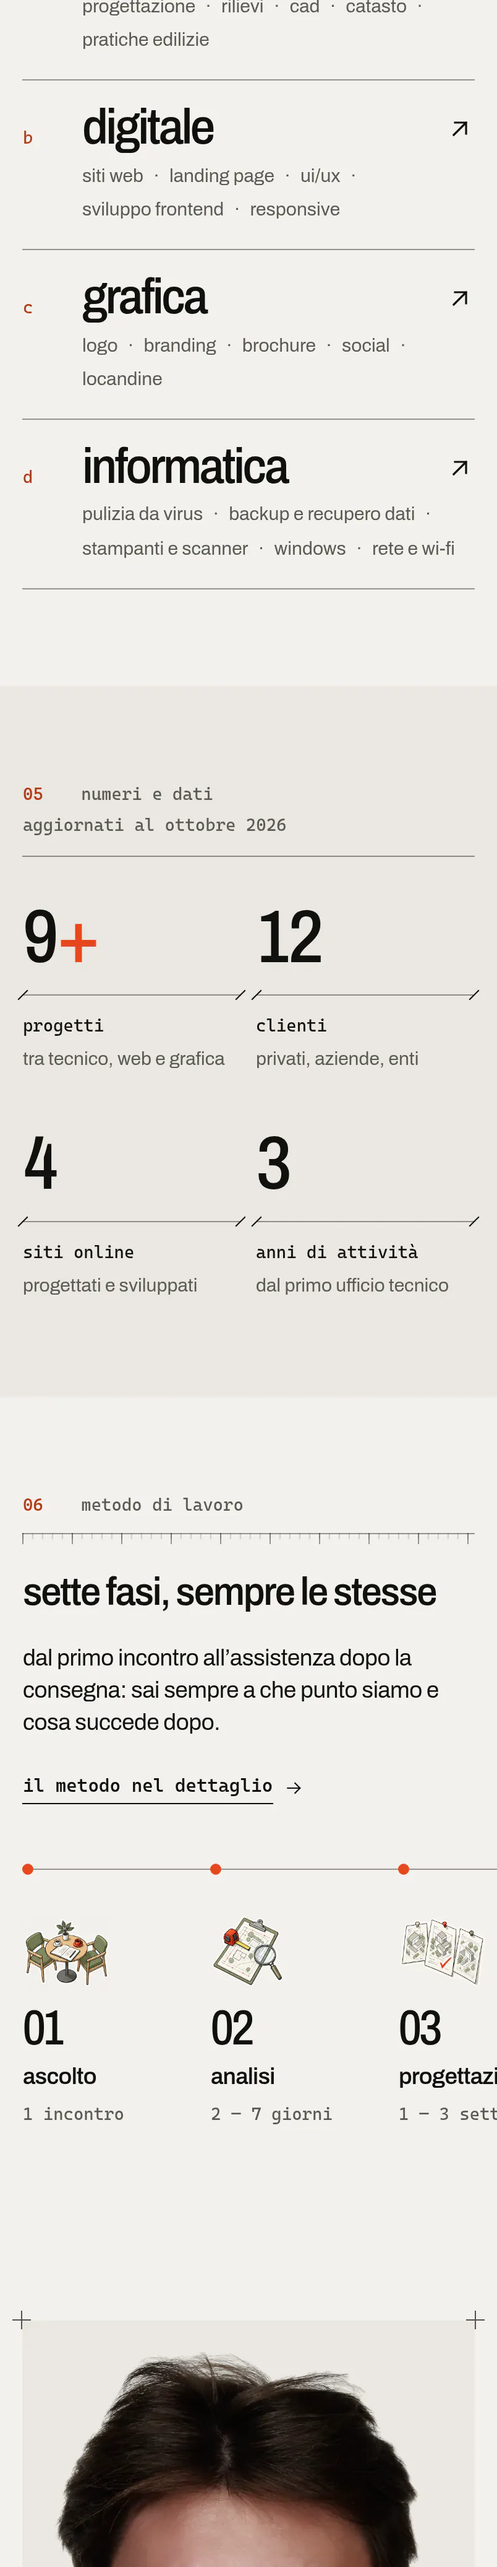
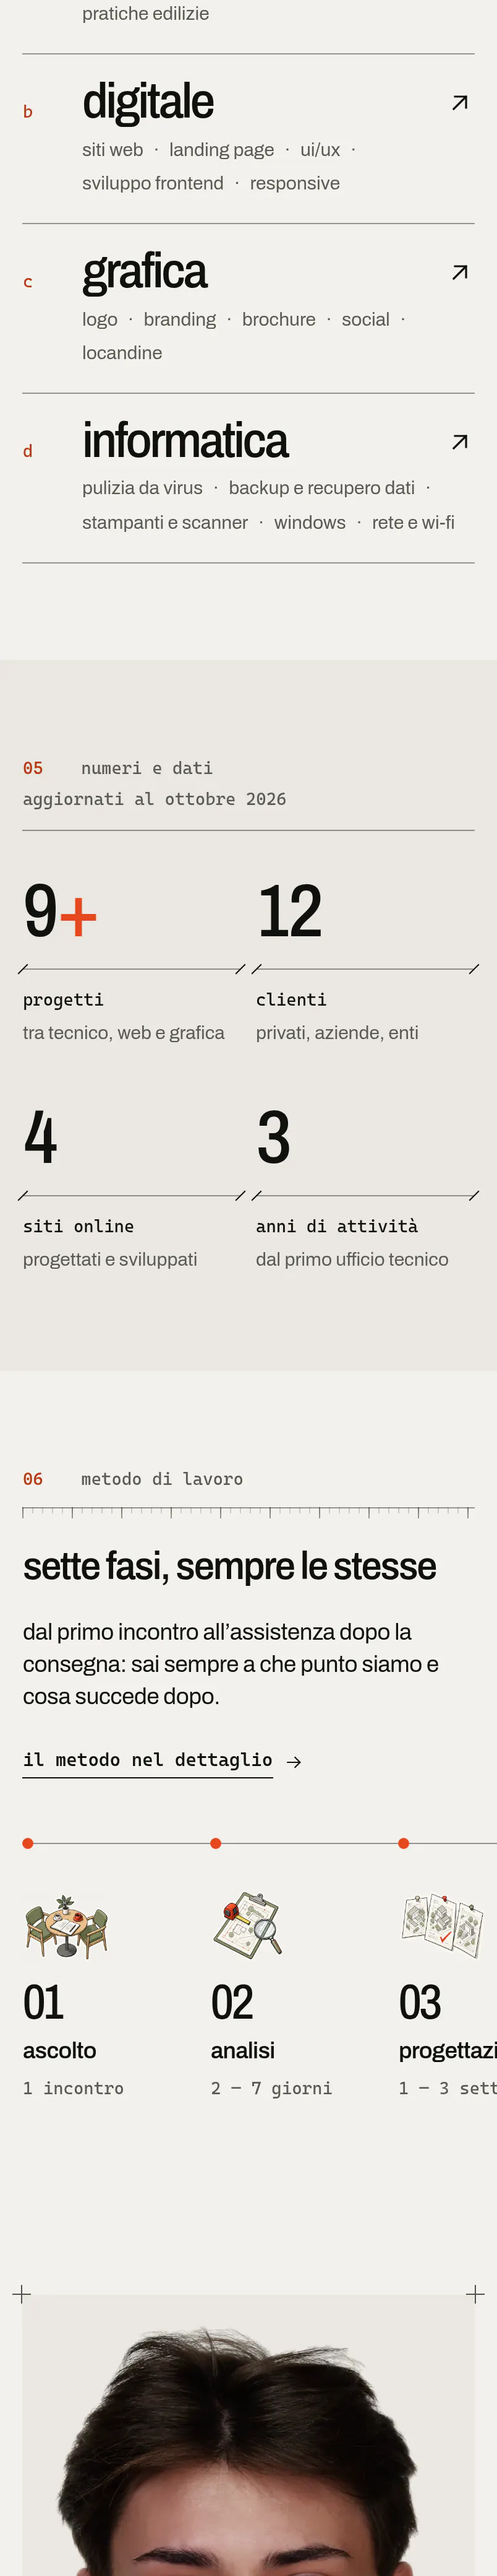
Catture aggiornate: Alberto Pecchini
Rifatte da .github/workflows/catture.yml: il sito online era cambiato.

diff --git a/albertopecchini.it/src/data/catture.js b/albertopecchini.it/src/data/catture.js
@@ -4,14 +4,14 @@
 // la copia vecchia dopo un aggiornamento.
 
 export const catture = {
-  'ap-desktop-tall.webp': { w: 1200, h: 2833, v: '93a6ef49' },
+  'ap-desktop-tall.webp': { w: 1200, h: 2833, v: '70c5fcf7' },
   'ap-desktop.webp': { w: 1200, h: 750, v: '4d7dc530' },
-  'ap-iphone-01.webp': { w: 804, h: 4146, v: '4a3166ba' },
-  'ap-iphone-02.webp': { w: 804, h: 4146, v: '0a98c793' },
-  'ap-iphone-03.webp': { w: 804, h: 4146, v: '0464941a' },
-  'ap-iphone-04.webp': { w: 804, h: 4146, v: '6e06b8dc' },
-  'ap-iphone-05.webp': { w: 804, h: 4146, v: '0b7b9122' },
-  'ap-iphone-06.webp': { w: 804, h: 4140, v: '33cd641b' },
+  'ap-iphone-01.webp': { w: 804, h: 4160, v: '7ae4dc73' },
+  'ap-iphone-02.webp': { w: 804, h: 4160, v: 'c9b27e6b' },
+  'ap-iphone-03.webp': { w: 804, h: 4160, v: '94d32ed8' },
+  'ap-iphone-04.webp': { w: 804, h: 4160, v: '0ae87dbd' },
+  'ap-iphone-05.webp': { w: 804, h: 4160, v: 'fdaac4c7' },
+  'ap-iphone-06.webp': { w: 804, h: 4150, v: '6b7a01dd' },
   'ap-mobile-tall.webp': { w: 600, h: 4000, v: 'c069e955' },
   'ap-mobile.webp': { w: 600, h: 1298, v: '3ed79ca2' },
   'ap-tablet.webp': { w: 720, h: 1036, v: '19c15742' },
